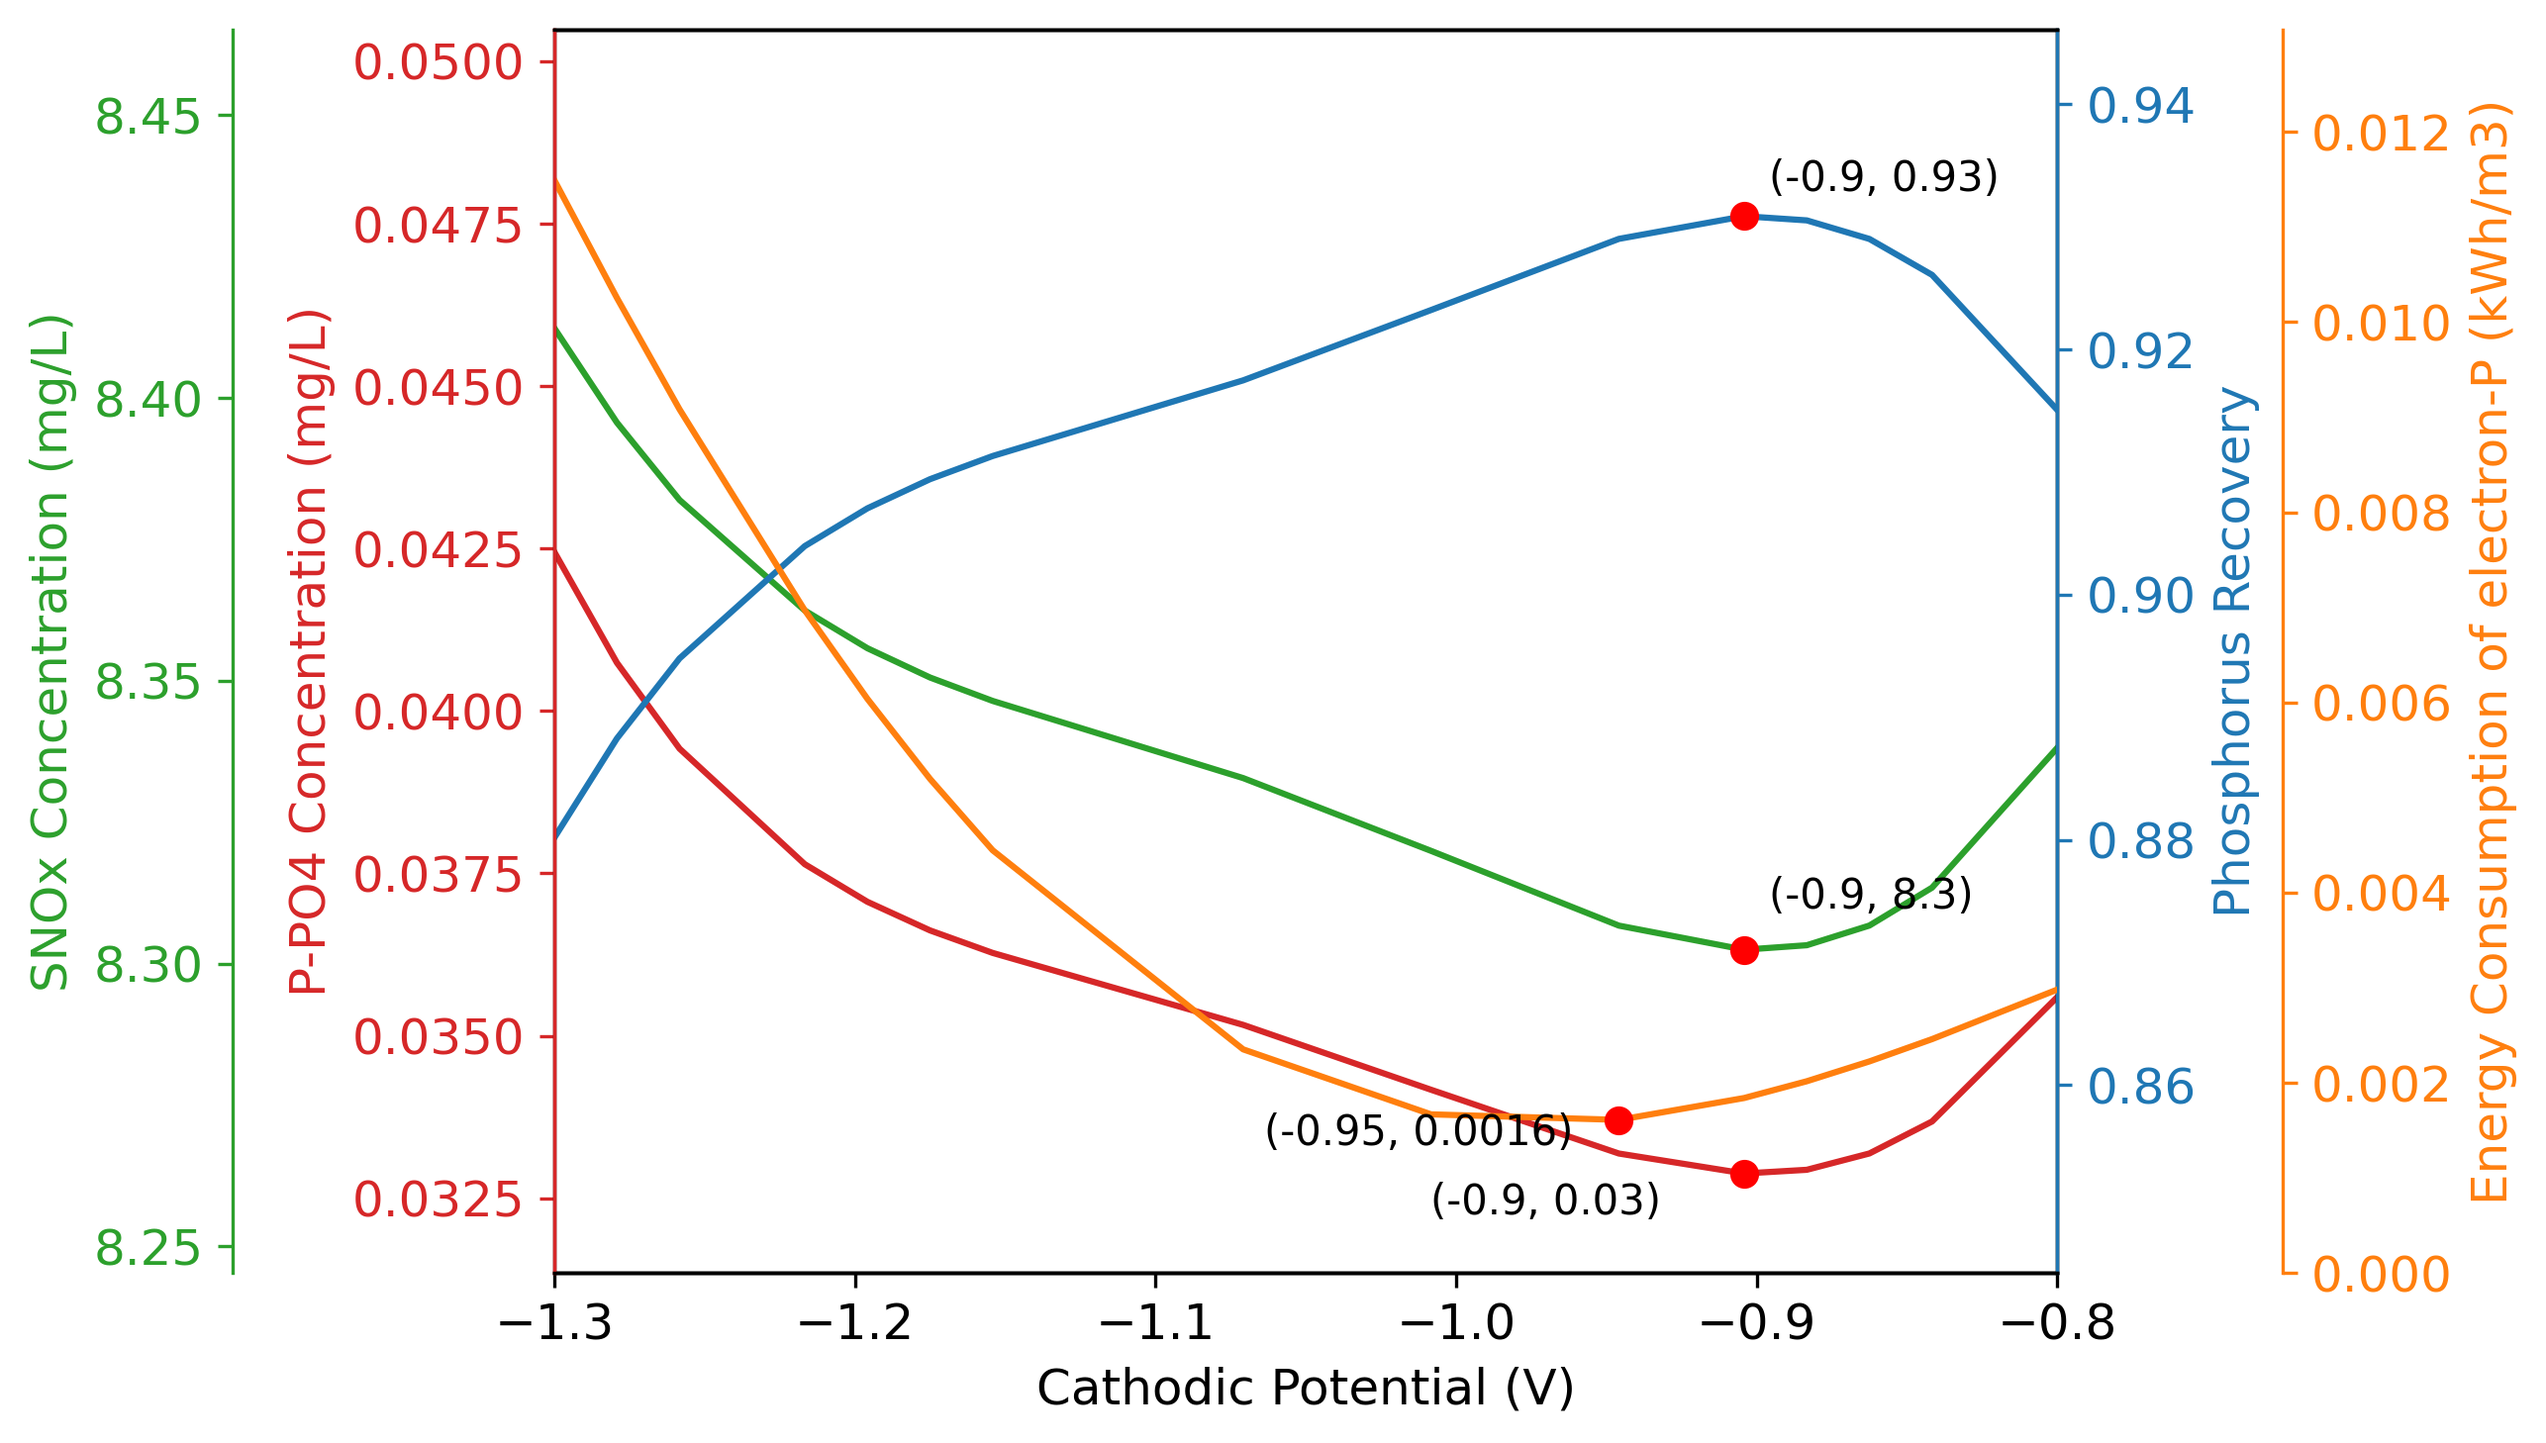
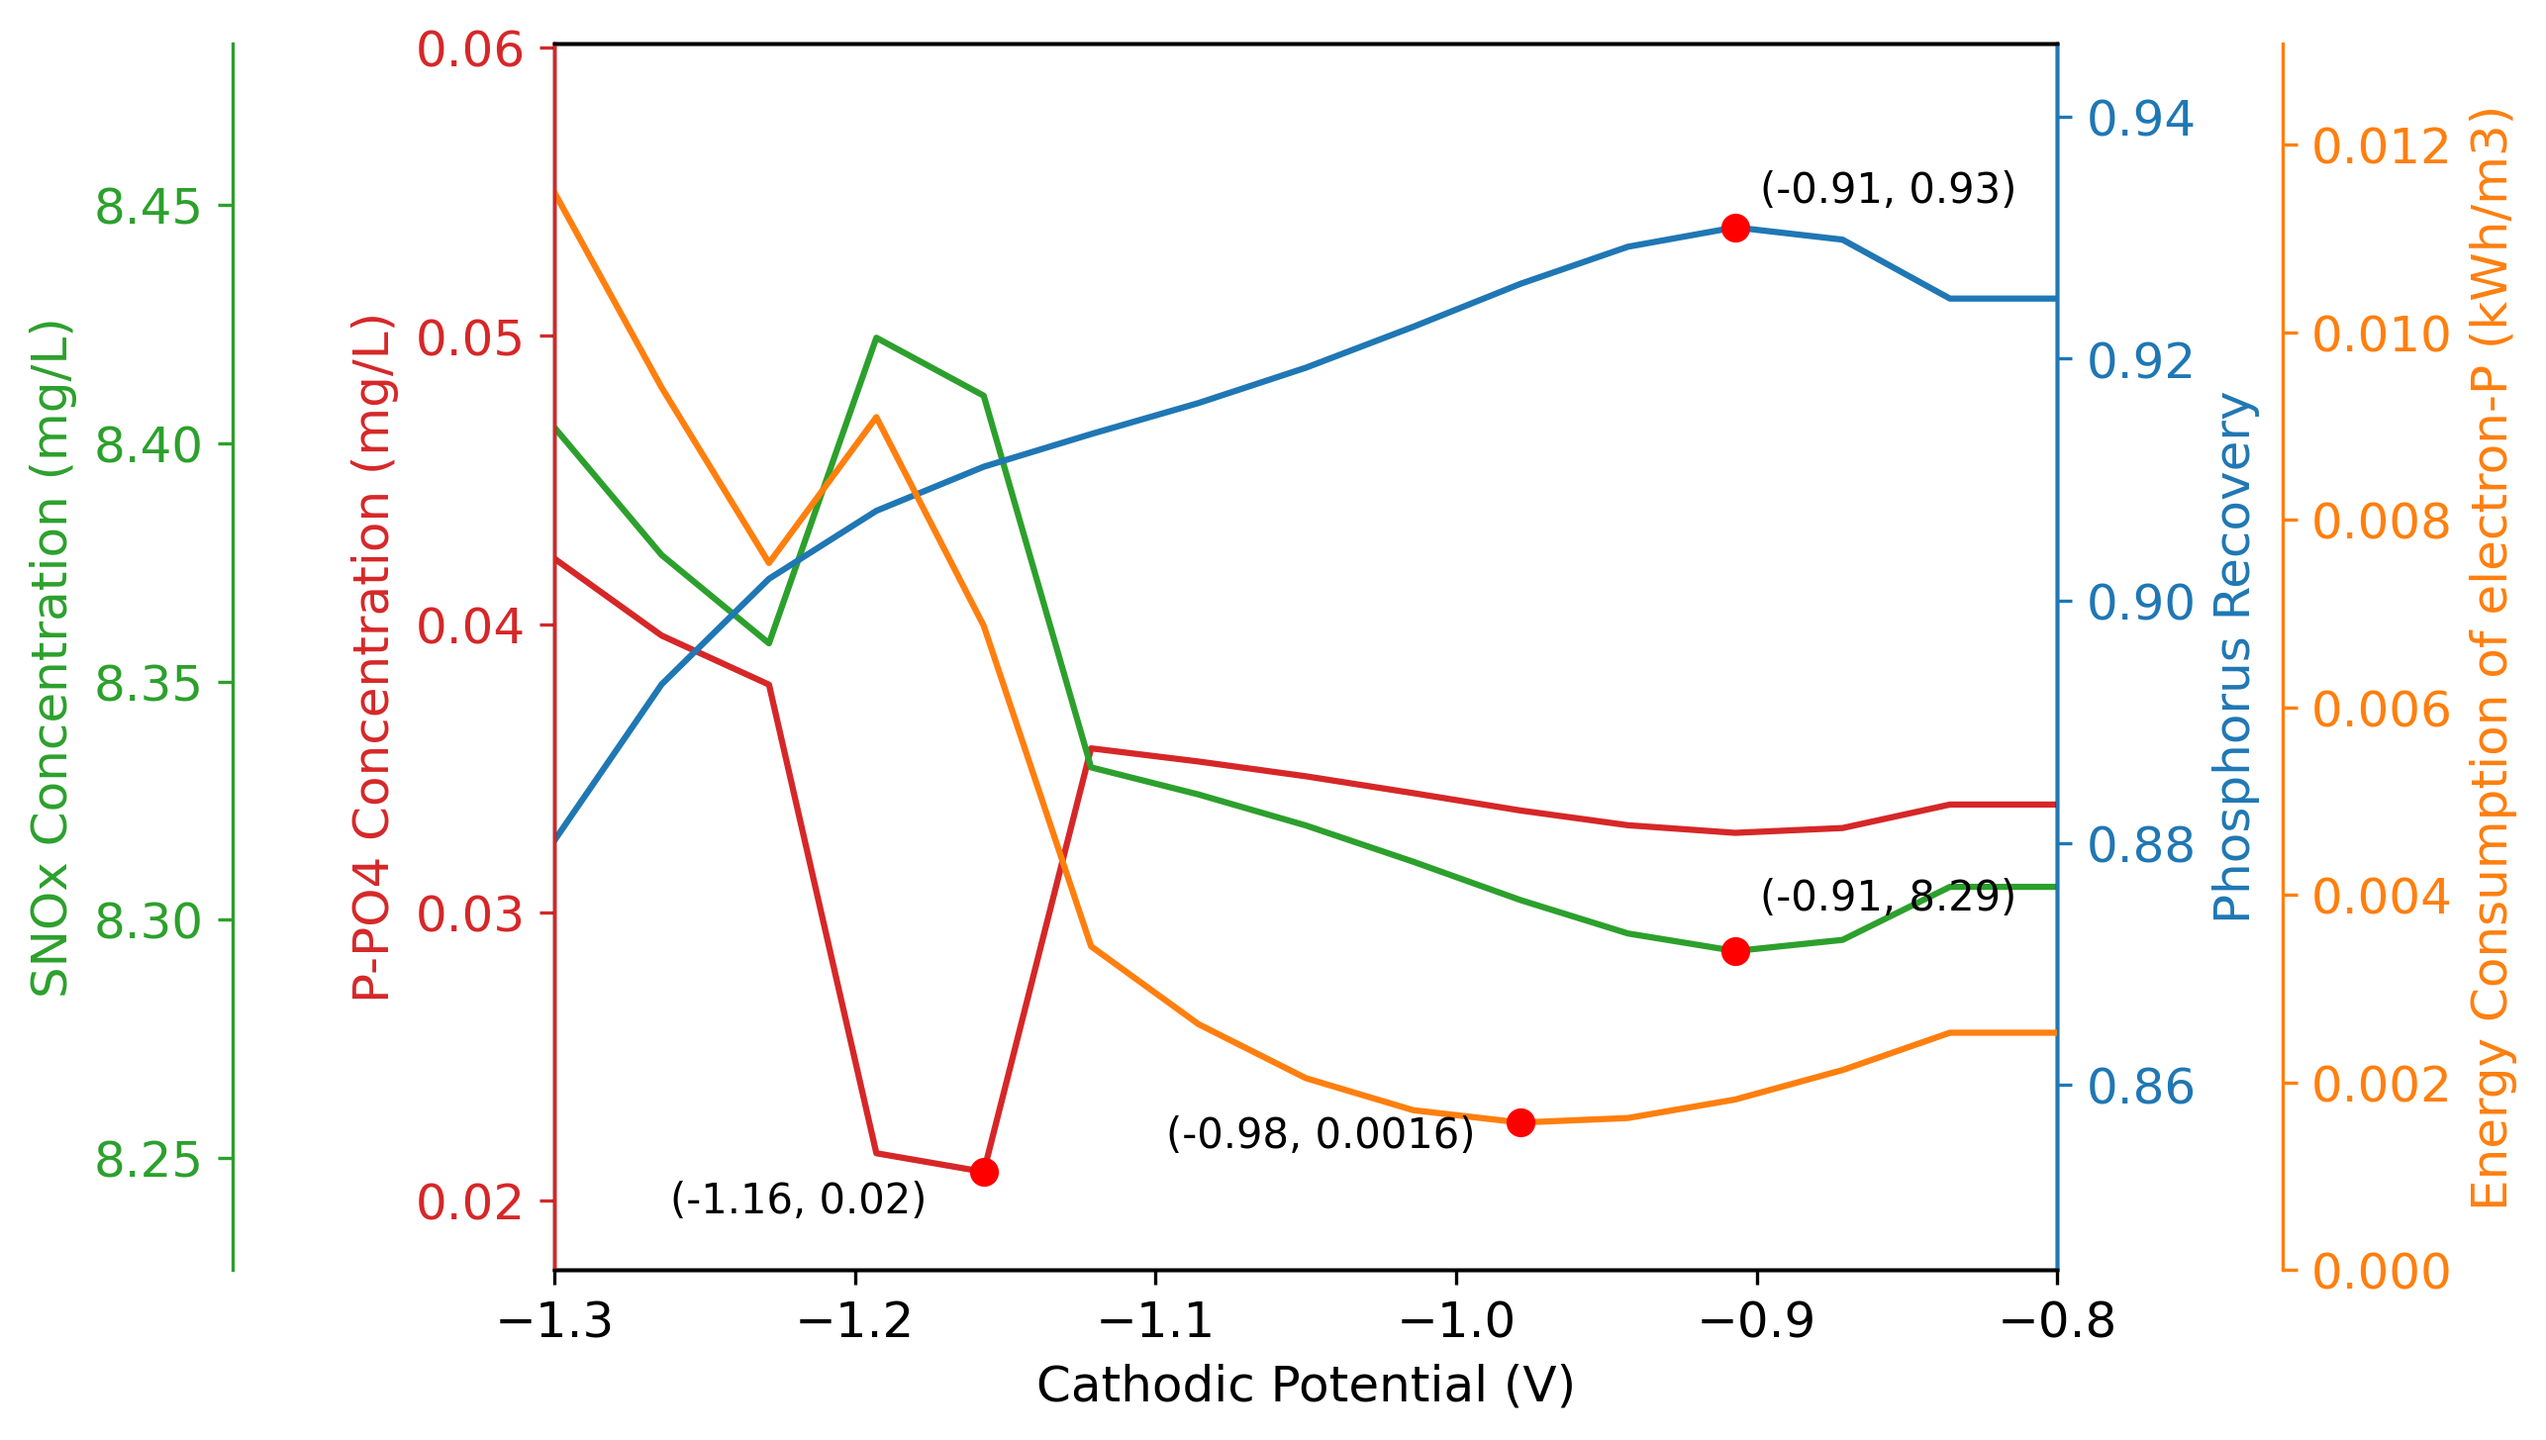
temporary version solved but not very stable

diff --git a/watertap/flowsheets/electroNP/BSM2_electroNP_surrogate_initialization_refined.py b/watertap/flowsheets/electroNP/BSM2_electroNP_surrogate_initialization_refined.py
@@ -175,7 +175,7 @@ def multi_run(
                 add_costing(m)
                 m.fs.costing.initialize()
                 interval_initializer(m.fs.costing)
-                _try_load_warm_start(m, has_electroNP)
+                # _try_load_warm_start(m, has_electroNP)
                 m.fs.electroNP.cathodic_potential.unfix()
                 m.fs.electroNP.area_volume_ratio.unfix()
                 m.fs.electroNP.cathodic_potential.fix(CP_list[i])
@@ -252,7 +252,7 @@ def main(
     # dt.display_variables_with_extreme_jacobians()
     # dt.display_constraints_with_extreme_jacobians()
 
-    _try_load_warm_start(m, m.fs.has_electroNP)
+    # _try_load_warm_start(m, m.fs.has_electroNP)
 
     if has_optimization:
         setup_optimization(

diff --git a/watertap/flowsheets/electroNP/BSM2_electroNP_surrogate_plot.py b/watertap/flowsheets/electroNP/BSM2_electroNP_surrogate_plot.py
@@ -6902,7 +6902,7 @@ def interp_2d(array):
 
 
 if __name__ == "__main__":
-    # plot_CP(num=25)
+    plot_CP(num=15, recompute=True)
     # plot_CP_effluent(num=25)
     # plot_rAV(num=25)
     # plot_rAV_effluent(num=25)
@@ -6926,7 +6926,7 @@ if __name__ == "__main__":
     # stackplot_COD_max(num=15)
     # stackplot_BOD5_max(num=15, recompute=False)
     # stackplot_TKN_max(num=15)
-    stackplot_TSS_max(num=20, recompute=True)
+    # stackplot_TSS_max(num=20, recompute=True)
     # plot_electricity_cost(num=5)
 
     plt.show(block=True)
